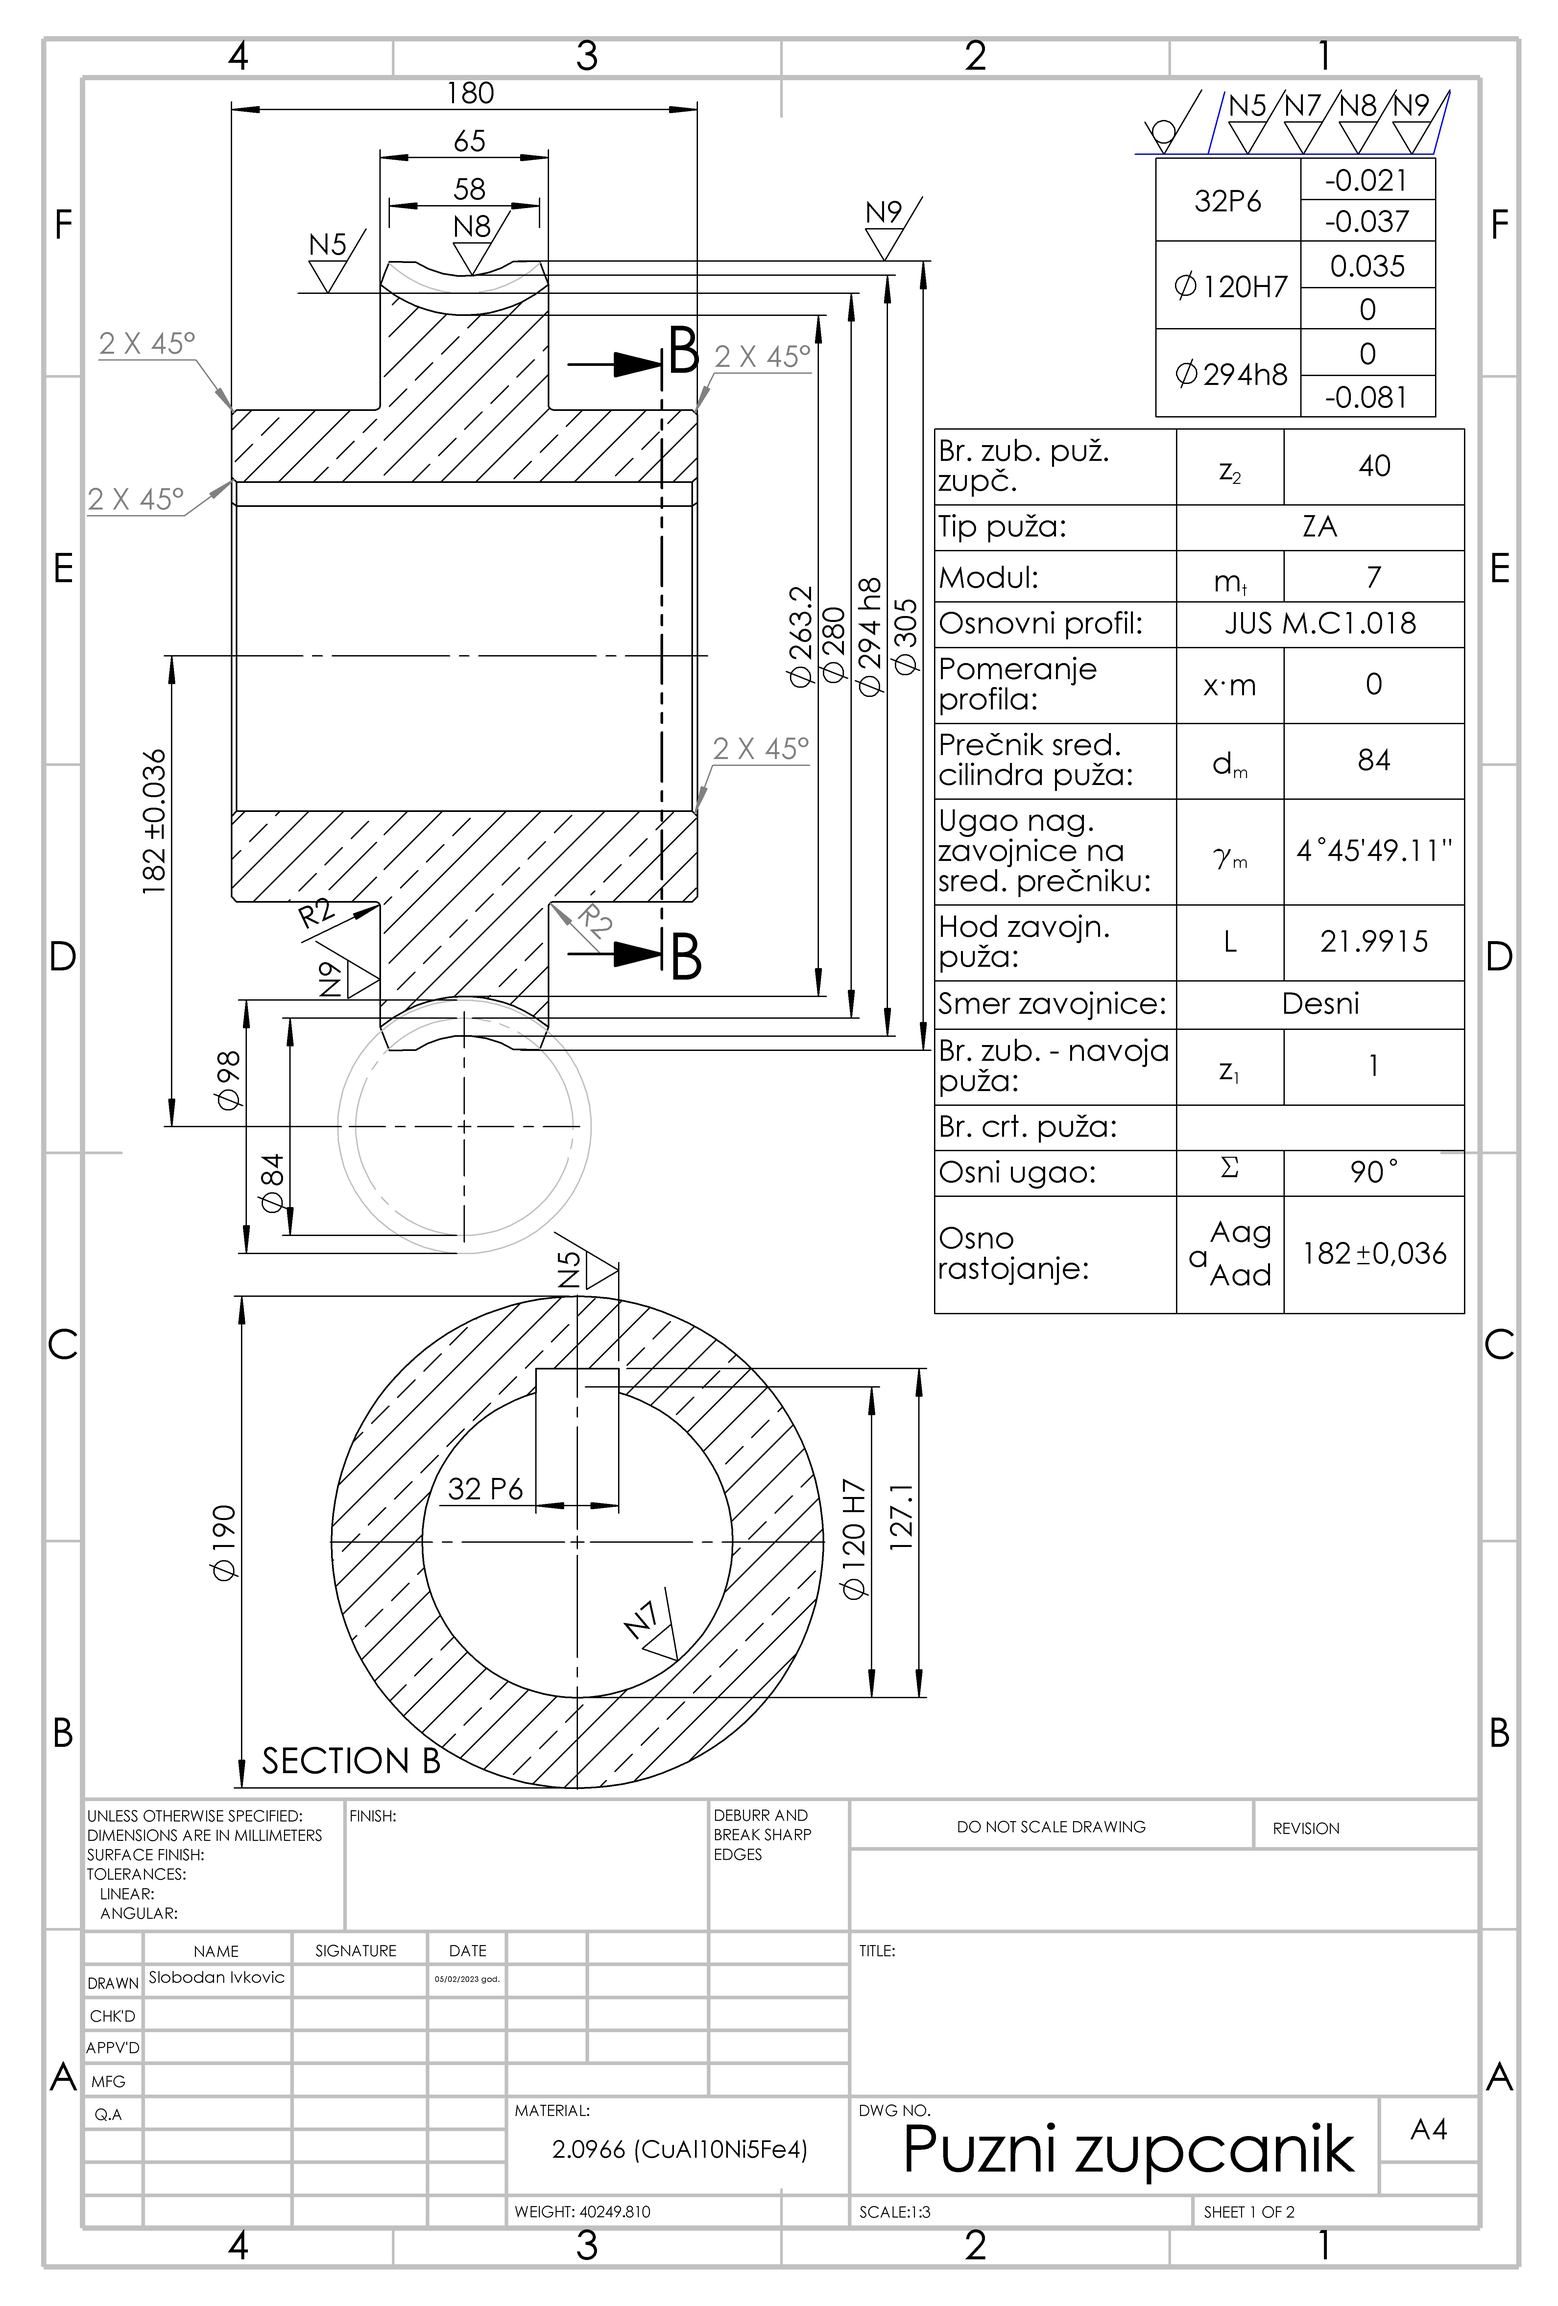
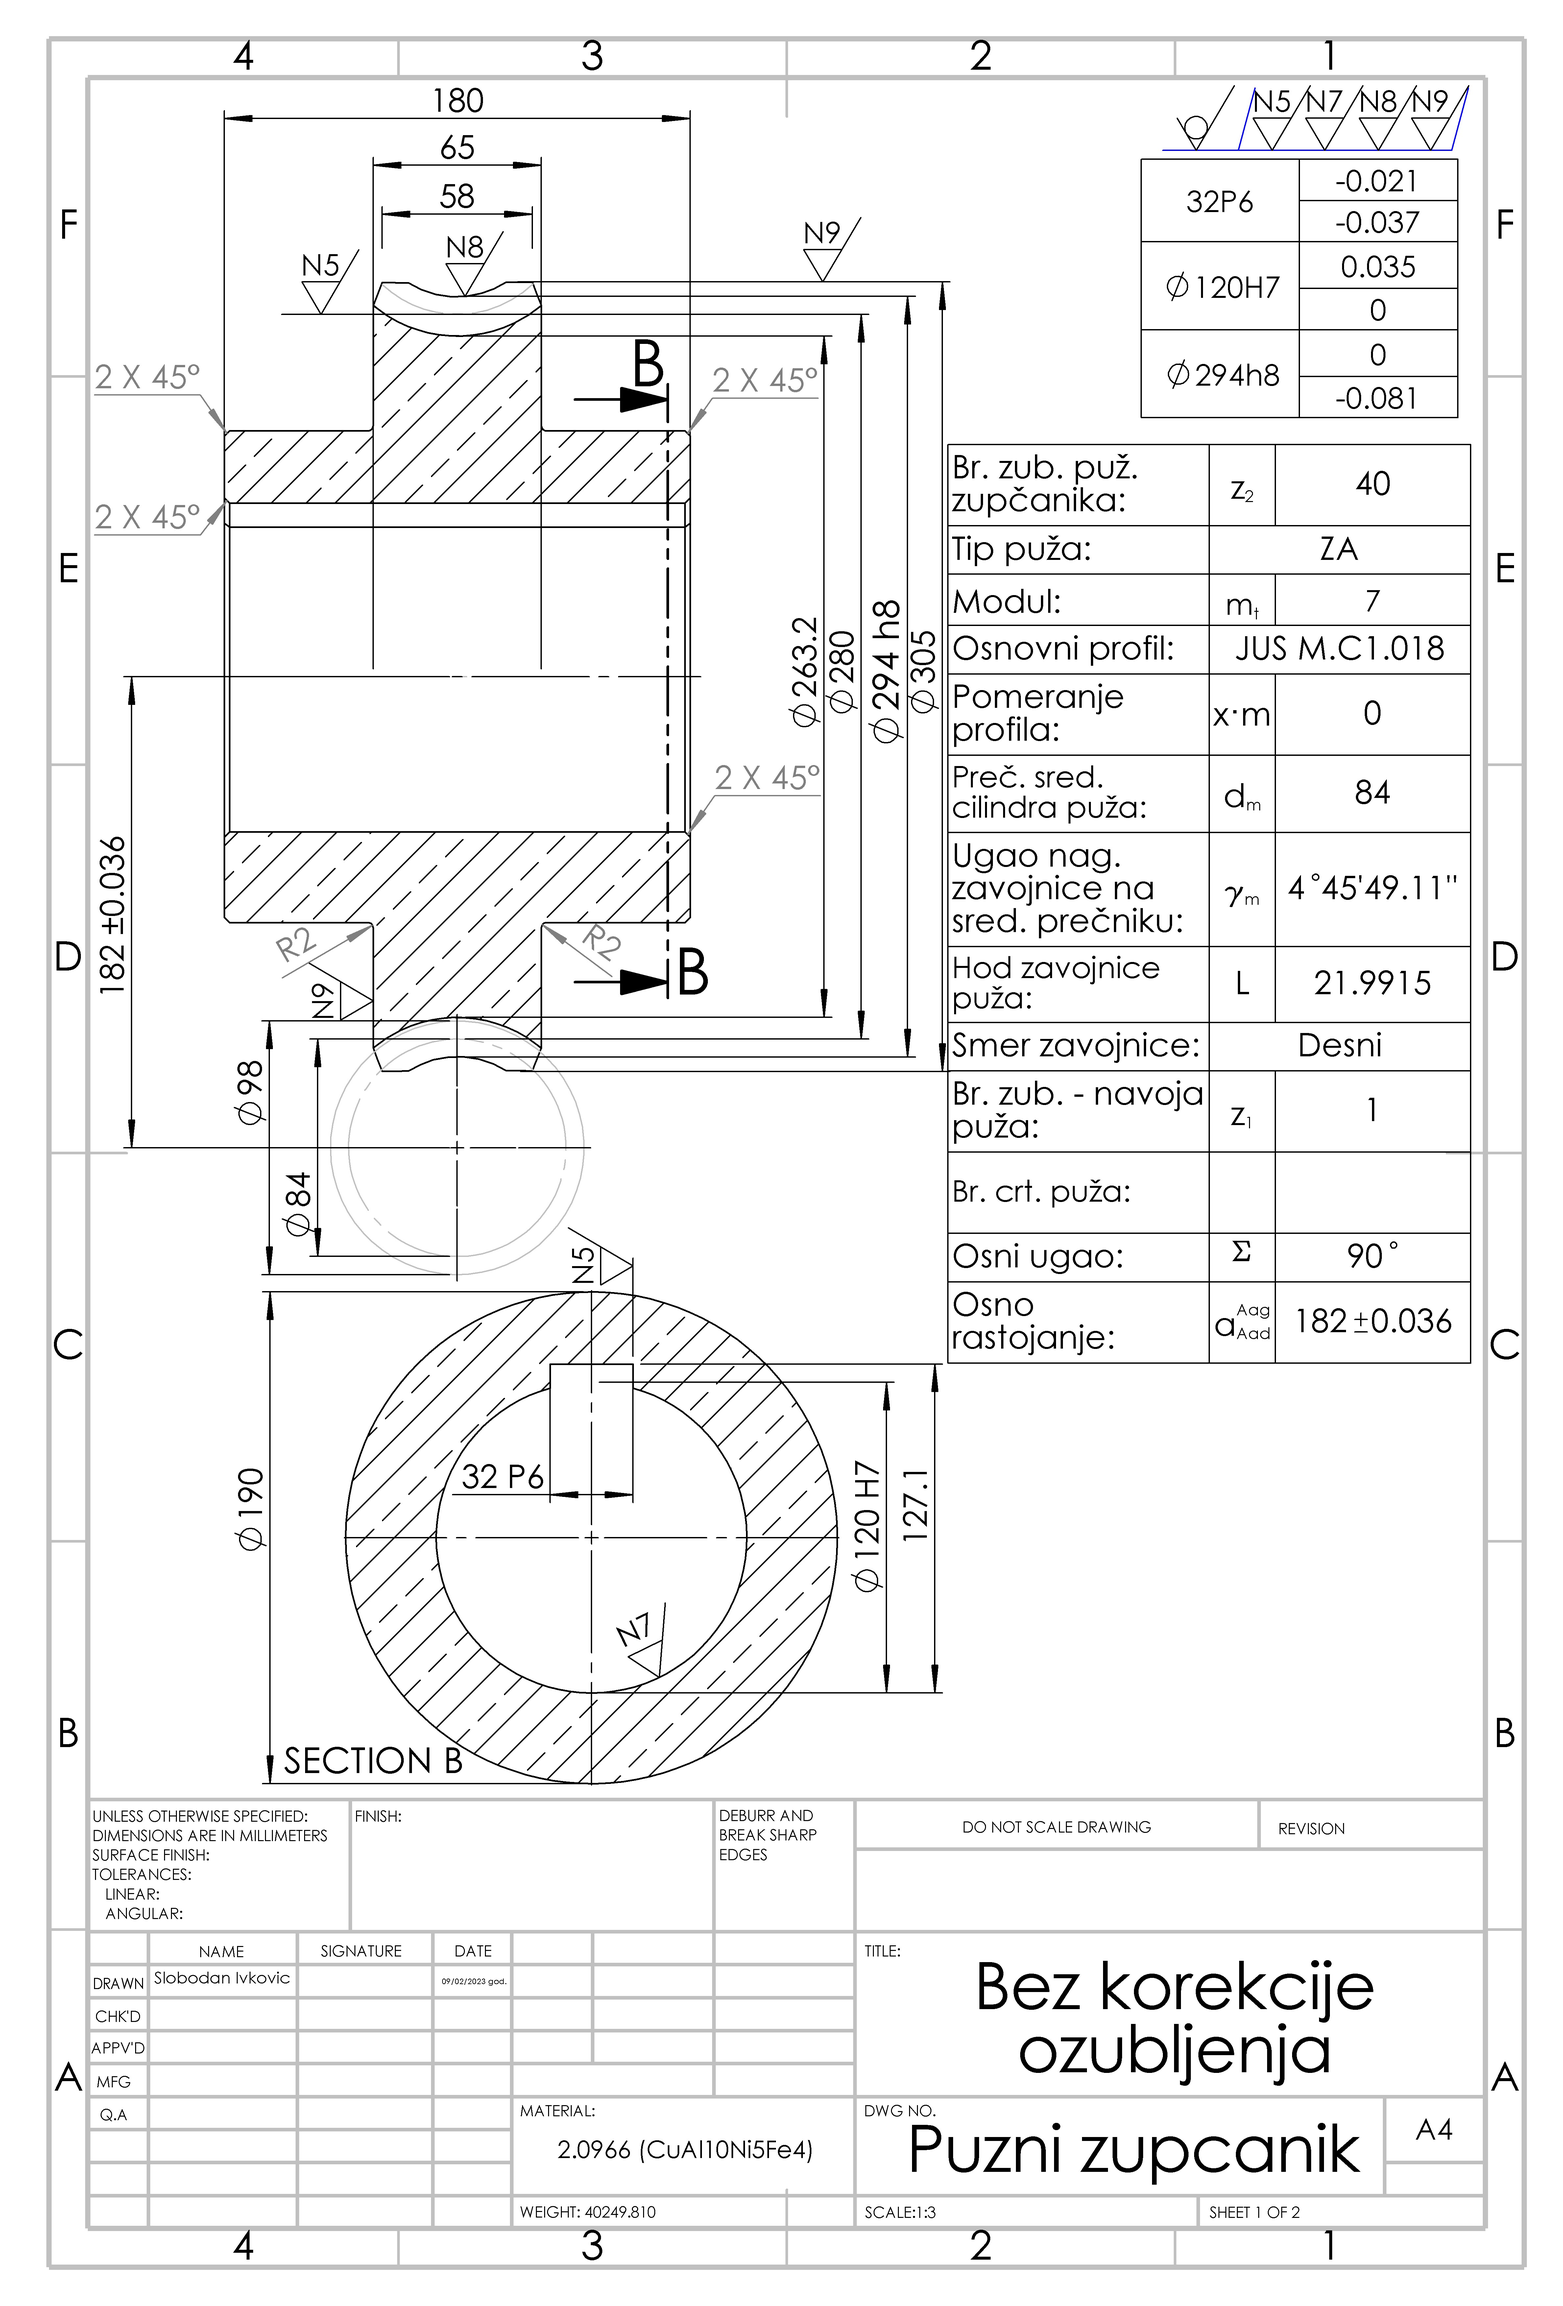
Worm gear teeth correction, animation setup content, and animation added and enabled. I love my son Aleksej Ivkovic Cvijic very very much. I miss you to the farthest star and beyond unponderable in infinity...

diff --git a/index.html b/index.html
@@ -14,7 +14,7 @@
 
     <!-- My CSS -->
     <link rel="stylesheet" type="text/css" href="css/styles.css">
-    <title>Моделирање пужа!</title>
+    <title>Моделирање пужног пара!</title>
   </head>
   <body>
     <!-- navbar -->
@@ -104,7 +104,22 @@
                 </h2>
                 <div id="collapse_crtez_puznog_zupcanika" class="accordion-collapse collapse" aria-labelledby="crtez_puznog_zupcanika" data-bs-parent="#modeliranje_puznog_para">
                   <div class="accordion-body">
-                    <img src="Pictures/Crtezi/Puzni_zupcanik_crtez.jpg" width="100%" alt="Цртеж пужног зупчаника">
+                    <ul class="nav nav-tabs" id="Puzni_zupcanik_crtezi_Tab" role="tablist">
+                      <li class="nav-item" role="presentation">
+                        <button class="nav-link active" id="Puzni_zupcanik_crtez_bez_korekcije-tab" data-bs-toggle="tab" data-bs-target="#Puzni_zupcanik_crtez_bez_korekcije" type="button" role="tab" aria-controls="Puzni_zupcanik_crtez_bez_korekcije" aria-selected="true">Без корекције озубљења</button>
+                      </li>
+                      <li class="nav-item" role="presentation">
+                        <button class="nav-link" id="Puzni_zupcanik_crtez_sa_korekcijom-tab" data-bs-toggle="tab" data-bs-target="#Puzni_zupcanik_crtez_sa_korekcijom" type="button" role="tab" aria-controls="Puzni_zupcanik_crtez_sa_korekcijom" aria-selected="false">Са корекцијом озубљења</button>
+                      </li>
+                    </ul>
+                    <div class="tab-content" id="Puzni_zupcanik_crtezi_TabContent">
+                      <div class="tab-pane show active" id="Puzni_zupcanik_crtez_bez_korekcije" role="tabpanel" aria-labelledby="Puzni_zupcanik_crtez_bez_korekcije-tab">
+                          <img src="Pictures/Crtezi/Puzni_zupcanik_crtez.jpg" width="100%" alt="Цртеж пужног зупчаника без корекције озубљења">
+                      </div>
+                      <div class="tab-pane" id="Puzni_zupcanik_crtez_sa_korekcijom" role="tabpanel" aria-labelledby="Puzni_zupcanik_crtez_sa_korekcijom-tab">
+                        <img src="Pictures/Crtezi/Puzni_zupcanik_crtez_sa_korekcijom.jpg" width="100%" alt="Цртеж пужног зупчаника са корекцијом озубљења">
+                      </div>
+                    </div>
                   </div>
                 </div>
               </div>
@@ -116,7 +131,22 @@
                 </h2>
                 <div id="collapse_crtez_puznog_para" class="accordion-collapse collapse" aria-labelledby="crtez_puznog_para" data-bs-parent="#modeliranje_puznog_para">
                   <div class="accordion-body">
-                    <img src="Pictures/Crtezi/Puzni_reduktor_sklopni_crtez.jpg" width="100%" alt="Цртеж пужног пара">
+                    <ul class="nav nav-tabs" id="Puzni_par_crtezi_Tab" role="tablist">
+                      <li class="nav-item" role="presentation">
+                        <button class="nav-link active" id="Puzni_par_crtez_bez_korekcije-tab" data-bs-toggle="tab" data-bs-target="#Puzni_par_crtez_bez_korekcije" type="button" role="tab" aria-controls="Puzni_par_crtez_bez_korekcije" aria-selected="true">Без корекције озубљења</button>
+                      </li>
+                      <li class="nav-item" role="presentation">
+                        <button class="nav-link" id="Puzni_par_crtez_sa_korekcijom-tab" data-bs-toggle="tab" data-bs-target="#Puzni_par_crtez_sa_korekcijom" type="button" role="tab" aria-controls="Puzni_par_crtez_sa_korekcijom" aria-selected="false">Са корекцијом озубљења</button>
+                      </li>
+                    </ul>
+                    <div class="tab-content" id="Puzni_par_crtezi_TabContent">
+                      <div class="tab-pane show active" id="Puzni_par_crtez_bez_korekcije" role="tabpanel" aria-labelledby="Puzni_par_crtez_bez_korekcije-tab">
+                        <img src="Pictures/Crtezi/Puzni_reduktor_sklopni_crtez.jpg" width="100%" alt="Цртеж пужног пара без корекције озубљења">
+                      </div>
+                      <div class="tab-pane" id="Puzni_par_crtez_sa_korekcijom" role="tabpanel" aria-labelledby="Puzni_par_crtez_sa_korekcijom-tab">
+                        <img src="Pictures/Crtezi/Puzni_reduktor_sklopni_crtez_sa_korekcijom_ozubljenja.jpg" width="100%" alt="Цртеж пужног пара са корекцијом озубљења">
+                      </div>
+                    </div>
                   </div>
                 </div>
               </div>
@@ -180,6 +210,12 @@
                         <button class="nav-link active" id="Puzni_par_sklop_modeliranje-tab" data-bs-toggle="tab" data-bs-target="#Puzni_par_sklop_modeliranje" type="button" role="tab" aria-controls="Puzni_par_sklop_modeliranje" aria-selected="true">Моделирање редуктора</button>
                       </li>
                       <li class="nav-item" role="presentation">
+                        <button class="nav-link" id="Puzni_par_korek_ozublj_pz_promene_na_crtez_podes_animacije-tab" data-bs-toggle="tab" data-bs-target="#Puzni_par_korek_ozublj_pz_promene_na_crtez_podes_animacije" type="button" role="tab" aria-controls="Puzni_par_korek_ozublj_pz_promene_na_crtez_podes_animacije" aria-selected="false">Корекција озубљења пужног зупчаника...</button>
+                      </li>
+                      <li class="nav-item" role="presentation">
+                        <button class="nav-link" id="Puzni_par_animacija-tab" data-bs-toggle="tab" data-bs-target="#Puzni_par_animacija" type="button" role="tab" aria-controls="Puzni_par_animacija" aria-selected="false">Анимација редуктора</button>
+                      </li>
+                      <li class="nav-item" role="presentation">
                         <button class="nav-link" id="Cilindricni_zupcasti_par_mail-tab" data-bs-toggle="tab" data-bs-target="#Cilindricni_zupcasti_par_mail" type="button" role="tab" aria-controls="Cilindricni_zupcasti_par_mail" aria-selected="false">"Zip" склопа</button>
                       </li>
                     </ul>
@@ -187,6 +223,16 @@
                       <div class="tab-pane show active" id="Puzni_par_sklop_modeliranje" role="tabpanel" aria-labelledby="Puzni_par_sklop_modeliranje-tab">
                         <div class="card ratio ratio-16x9">
                           <iframe width="560" height="315" src="https://www.youtube.com/embed/7xURSMMqVfQ" title="YouTube video player" frameborder="0" allow="accelerometer; autoplay; clipboard-write; encrypted-media; gyroscope; picture-in-picture; web-share" allowfullscreen></iframe>
+                        </div>
+                      </div>
+                      <div class="tab-pane" id="Puzni_par_korek_ozublj_pz_promene_na_crtez_podes_animacije" role="tabpanel" aria-labelledby="Puzni_par_korek_ozublj_pz_promene_na_crtez_podes_animacije-tab">
+                        <div class="card ratio ratio-16x9">
+                          <iframe width="560" height="315" src="https://www.youtube.com/embed/x-uc2lkl2Ns" title="YouTube video player" frameborder="0" allow="accelerometer; autoplay; clipboard-write; encrypted-media; gyroscope; picture-in-picture; web-share" allowfullscreen></iframe>
+                        </div>
+                      </div>
+                      <div class="tab-pane" id="Puzni_par_animacija" role="tabpanel" aria-labelledby="Puzni_par_animacija-tab">
+                        <div class="card ratio ratio-16x9">
+                          <iframe width="560" height="315" src="https://www.youtube.com/embed/tRBTJswJO3M" title="YouTube video player" frameborder="0" allow="accelerometer; autoplay; clipboard-write; encrypted-media; gyroscope; picture-in-picture; web-share" allowfullscreen></iframe>
                         </div>
                       </div>
                       <div class="tab-pane" id="Cilindricni_zupcasti_par_mail" role="tabpanel" aria-labelledby="Cilindricni_zupcasti_par_mail-tab">
